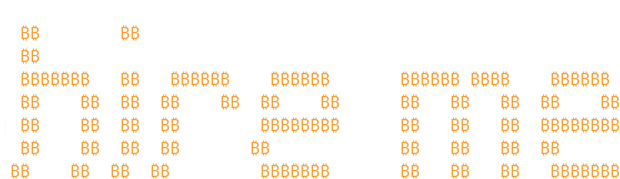
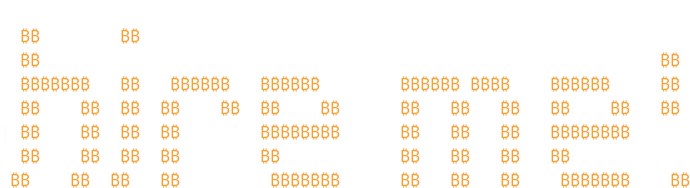
updated the bitcoin hire me image

diff --git a/src/views/Resume.vue b/src/views/Resume.vue
@@ -11,26 +11,23 @@
     <v-row justify="center" style="padding: 2em">
       <v-img
         :src="require('../assets/hireme.png')"
-        max-width="620"
-        height="179"
+        max-width="690"
+        height="188"
       />
     </v-row>
 
-    <!-- so you may have found out this is an image and not ascii. 
-         congrats, i'm completely exposed on this one. this is not for lack of effort
-         turns out vue really hates preserving whitespace with some of this stuff 
-         see /assets/aPreviousAttempt.png for what the code looked like though.
+    <!-- so you may have found out this is an image and not text. 
+         congrats, i'm completely exposed on this one.
          
-         yes, there was a programatic solution, but i could use a job
-         the problem did get solved though!
+         this is not for lack of effort
+         turns out finding a monospace font with a bitcoin symbol in ttf that 
+         will work with most browsers and display this right does not work out well.
+         see Scratchpad.txt for what the code looked like though for a laugh.
      -->
 
     <v-row justify="center">
       <div class="ik">
         <pre class="my" style="line-height: 1em">
-        
-
-        
 /====================-<span style="color:#6be41f;">LANGUAGES</span>-====================\
 |                                                   |
 |                                                   |
@@ -51,9 +48,6 @@
 |              <span class="lre">Solidity</span>        <span class="lre">2021</span>                 |
 |                                                   |
 \===================================================/
-
-
-
       </pre>
       </div>
     </v-row>
@@ -82,7 +76,6 @@
   |                      <span class="lre">RDLC Wizardry</span>        <span class="lre">2019</span>
   |
    \_______________________________________________________________________
-
 </span>
       </pre>
       </div>
@@ -123,7 +116,6 @@
 |     <span class="ik">::</span>                                                                                                       |
 :                                                                                                              :
 :______________________________________________________________________________________________________________:
-
       </pre>
       </div>
     </v-row>
@@ -185,7 +177,6 @@
 |<span class="re">\\</span>|            textmode aesthetics are my jam.                             |<span class="re">\\</span>|
 +--|                                                                        |--+
    +================================================================= <span class="lgr">DOX</span> ==+
-
         </pre>
       </div>
     </v-row>
